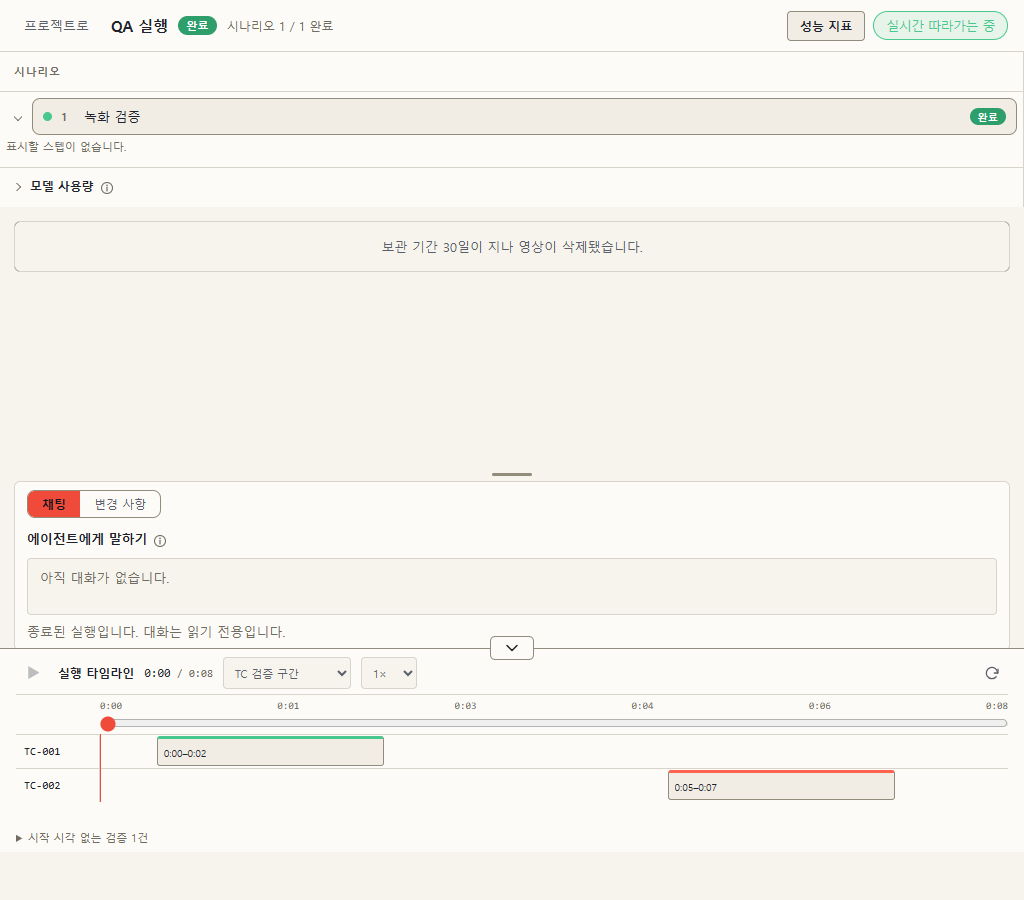
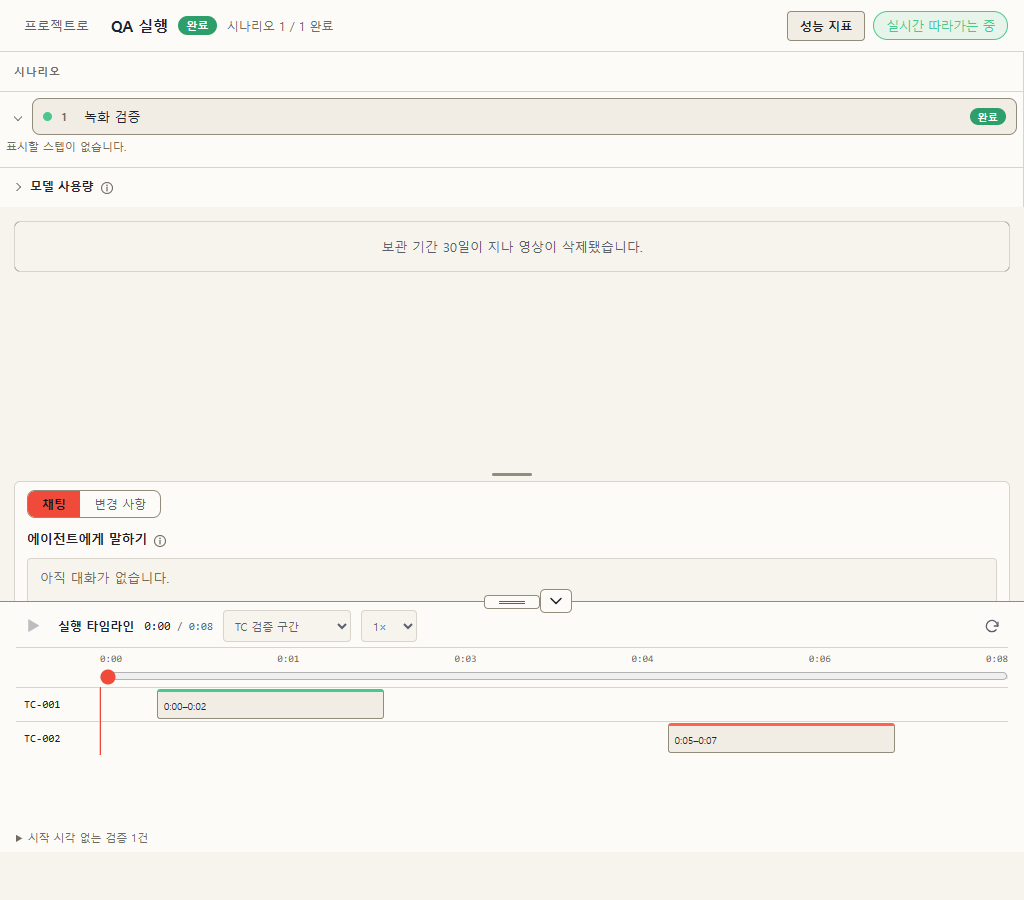
feat(qa): 타임라인 overlay와 드래그 높이 조절 추가

Changed region(s): [[0.0312, 0.6533, 1.0, 0.9022], [0.4688, 0.6533, 0.5625, 0.6844], [0.375, 0.6533, 0.4062, 0.6844]]

diff --git a/src/qa/QaExecutionTimeline.tsx b/src/qa/QaExecutionTimeline.tsx
@@ -1,4 +1,4 @@
-import { useRef, useState } from 'react'
+import { useEffect, useRef, useState } from 'react'
 import { useI18n } from '../i18n/useI18n'
 import { useTestCaseLabel } from '../testCases/testCaseIdentifiers'
 import type { Attempt, Playback } from './evaluation/evaluationApi'
@@ -16,14 +16,49 @@ export function QaExecutionTimeline({ bounds, timestamp, playback, attempts, pla
   const caseLabel = useTestCaseLabel()
   const [collapsed, setCollapsed] = useState(false)
   const [zoom, setZoom] = useState(1)
+  const [height, setHeight] = useState(155)
+  const [maximumHeight, setMaximumHeight] = useState(400)
+  const [resizing, setResizing] = useState(false)
+  const panel = useRef<HTMLElement>(null)
+  const drag = useRef<{ y: number; height: number } | null>(null)
   const scroll = useRef<HTMLDivElement>(null)
+  useEffect(() => {
+    const container = panel.current?.closest('.qa-console')
+    if (!container) return
+    const observer = new ResizeObserver(([entry]) => setMaximumHeight(Math.max(64, Math.min(600, entry.contentRect.height - 160))))
+    observer.observe(container)
+    return () => observer.disconnect()
+  }, [])
+  const shownHeight = Math.max(64, Math.min(maximumHeight, height))
+  function resizeTo(value: number) { setHeight(Math.max(64, Math.min(maximumHeight, value))) }
   const duration = (bounds.end - bounds.start) / 1000
   const percentage = (time: number) => Math.max(0, Math.min(100, (time - bounds.start) / (bounds.end - bounds.start) * 100))
   const tracks = caseTimelineTracks(attempts, bounds)
   const ranges = tracks.flatMap(track => track.intervals)
   const current = ranges.filter(({ range }) => timestamp >= range.start && timestamp < range.end)
   const unknown = attempts.filter(attempt => attempt.startedAt === null)
-  return <section className={`qa-execution-timeline${collapsed ? ' qa-execution-timeline--collapsed' : ''}`} aria-label={copy.timeline}>
+  return <section ref={panel} className={`qa-execution-timeline${collapsed ? ' qa-execution-timeline--collapsed' : ''}`} aria-label={copy.timeline}>
+    <div className="qa-timeline-resize" role="separator" tabIndex={0} aria-label={copy.resize} aria-orientation="horizontal" aria-valuemin={64} aria-valuemax={maximumHeight} aria-valuenow={shownHeight} data-resizing={resizing}
+      onPointerDown={event => {
+        if (event.button !== 0) return
+        event.preventDefault()
+        event.currentTarget.setPointerCapture(event.pointerId)
+        drag.current = { y: event.clientY, height: collapsed ? 64 : shownHeight }
+        setResizing(true)
+      }}
+      onPointerMove={event => {
+        if (!drag.current) return
+        if (Math.abs(event.clientY - drag.current.y) > 3) setCollapsed(false)
+        resizeTo(drag.current.height + drag.current.y - event.clientY)
+      }}
+      onPointerUp={event => { drag.current = null; setResizing(false); event.currentTarget.releasePointerCapture(event.pointerId) }}
+      onLostPointerCapture={() => { drag.current = null; setResizing(false) }}
+      onKeyDown={event => {
+        if (!['ArrowUp', 'ArrowDown', 'Home', 'End'].includes(event.key)) return
+        event.preventDefault()
+        setCollapsed(false)
+        resizeTo(event.key === 'Home' ? 64 : event.key === 'End' ? maximumHeight : shownHeight + (event.key === 'ArrowUp' ? 24 : -24))
+      }}><span aria-hidden="true" /></div>
     <header className="qa-execution-head">
       <button className="qa-icon-button" type="button" disabled={!playable} aria-label={playing ? evidence.pause : evidence.play} onClick={onTogglePlay}>
         <svg aria-hidden="true" width="18" height="18" viewBox="0 0 24 24" fill="currentColor">{playing ? <><rect x="6" y="4" width="4" height="16" rx="1" /><rect x="14" y="4" width="4" height="16" rx="1" /></> : <path d="M7 4.5a1 1 0 0 1 1.5-.86l12 7a1 1 0 0 1 0 1.72l-12 7A1 1 0 0 1 7 18.5z" />}</svg>
@@ -46,7 +81,7 @@ export function QaExecutionTimeline({ bounds, timestamp, playback, attempts, pla
       <button className="qa-icon-button qa-timeline-collapse" type="button" aria-label={collapsed ? copy.expand : copy.collapse} title={collapsed ? copy.expand : copy.collapse} aria-expanded={!collapsed} onClick={() => setCollapsed(value => !value)}><svg aria-hidden="true" width="20" height="20" viewBox="0 0 24 24" fill="none" stroke="currentColor" strokeWidth="1.8" strokeLinecap="round" strokeLinejoin="round"><path d={collapsed ? 'm6 15 6-6 6 6' : 'm6 9 6 6 6-6'} /></svg></button>
     </header>
     {!collapsed && <>
-      <div className="qa-timeline-scroll" ref={scroll}>
+      <div className="qa-timeline-scroll" ref={scroll} style={{ height: shownHeight }}>
         <div className="qa-timeline-chart" style={{ width: `${zoom * 100}%` }}>
           <div className="qa-timeline-axis">
             <div className="qa-timeline-ruler" aria-hidden="true">{Array.from({ length: 6 * zoom }, (_, index) => <span key={index}>{clipTimeLabel(duration * index / (6 * zoom - 1))}</span>)}</div>

diff --git a/src/qa/qaReplay.css b/src/qa/qaReplay.css
@@ -85,9 +85,9 @@
 .qa-replay-timeline-host { flex:none; }
 .qa-focus:has(.qa-execution-timeline) { grid-template-rows:unset; }
 .qa-execution-timeline { position:relative; padding:8px 16px 7px; }
-.qa-timeline-collapse { position:absolute; top:-13px; left:50%; transform:translateX(-50%); z-index:4; width:44px; height:24px; border:1px solid var(--color-border-strong); border-radius:5px; background:var(--color-bg-surface); color:var(--color-text-primary); }
+.qa-timeline-collapse { position:absolute; top:-13px; left:calc(50% + 44px); transform:translateX(-50%); z-index:4; width:32px; height:24px; border:1px solid var(--color-border-strong); border-radius:5px; background:var(--color-bg-surface); color:var(--color-text-primary); }
 .qa-execution-timeline--collapsed { padding-bottom:8px; }
-.qa-timeline-scroll { max-height:155px; overflow:auto; margin-top:5px; border-top:1px solid var(--color-border-subtle); }
+.qa-timeline-scroll { overflow:auto; margin-top:5px; border-top:1px solid var(--color-border-subtle); }
 .qa-timeline-chart { position:relative; margin:0; min-width:100%; }
 .qa-timeline-axis { position:sticky; top:0; margin-left:84px; z-index:3; padding:3px 0 8px; background:var(--color-bg-surface); }
 .qa-timeline-ruler { line-height:16px; padding-bottom:8px; }
@@ -116,3 +116,10 @@
   .qa-execution-timeline { padding-inline:10px; }
   .qa-timeline-zoom { width:48px; }
 }
+.qa-replay-timeline-host { position:absolute; bottom:0; left:0; right:0; z-index:6; }
+.qa-timeline-resize { position:absolute; top:-7px; left:0; right:0; height:14px; cursor:row-resize; touch-action:none; z-index:3; }
+.qa-timeline-resize > span { position:absolute; left:50%; top:0; transform:translateX(-50%); width:56px; height:14px; display:grid; place-items:center; border:1px solid var(--color-border-strong); border-radius:4px; background:var(--color-bg-surface); }
+.qa-timeline-resize > span::after { content:''; width:26px; height:3px; border-block:1px solid var(--color-text-secondary); }
+.qa-timeline-resize:hover > span, .qa-timeline-resize[data-resizing='true'] > span { border-color:var(--color-action-primary); }
+.qa-timeline-resize:focus-visible { outline:2px solid var(--color-action-primary); outline-offset:2px; }
+html:has(.qa-timeline-resize[data-resizing='true']) { cursor:row-resize; user-select:none; }

diff --git a/src/i18n/messages/qa.ts b/src/i18n/messages/qa.ts
@@ -2,7 +2,7 @@ import type { Localized } from '../messages'
 
 /** Strings for `src/qa/*`. See `common.ts` for the typing convention. */
 export const qaEn = {
-  replay: { title: 'Execution timeline', zoom: 'Timeline zoom', collapse: 'Collapse timeline', expand: 'Expand timeline', timeline: 'QA recording timeline', intervals: 'TC verification intervals', unknownStart: 'Start time unknown · jump to report', gaps: (count: number) => `${count} video gaps`, unknownIntervals: (count: number) => `${count} attempts without a start time` },
+  replay: { title: 'Execution timeline', zoom: 'Timeline zoom', resize: 'Resize timeline height', collapse: 'Collapse timeline', expand: 'Expand timeline', timeline: 'QA recording timeline', intervals: 'TC verification intervals', unknownStart: 'Start time unknown · jump to report', gaps: (count: number) => `${count} video gaps`, unknownIntervals: (count: number) => `${count} attempts without a start time` },
   rawLogs: {
     filter: 'Filter text', type: 'Type', direction: 'Direction', all: 'All',
     includePulse: 'Include pulse relay', find: 'Find in filtered logs',
@@ -695,7 +695,7 @@ export const qaEn = {
 } as const
 
 export const qaKo: Localized<typeof qaEn> = {
-  replay: { title: '실행 타임라인', zoom: '시간축 확대', collapse: '타임라인 접기', expand: '타임라인 펼치기', timeline: 'QA 녹화 실행 바', intervals: 'TC 검증 구간', unknownStart: '시작 시각 없음 · 결과 보고 시점으로 이동', gaps: (count: number) => `영상 누락 ${count}구간`, unknownIntervals: (count: number) => `시작 시각 없는 검증 ${count}건` },
+  replay: { title: '실행 타임라인', zoom: '시간축 확대', resize: '타임라인 높이 조절', collapse: '타임라인 접기', expand: '타임라인 펼치기', timeline: 'QA 녹화 실행 바', intervals: 'TC 검증 구간', unknownStart: '시작 시각 없음 · 결과 보고 시점으로 이동', gaps: (count: number) => `영상 누락 ${count}구간`, unknownIntervals: (count: number) => `시작 시각 없는 검증 ${count}건` },
   rawLogs: {
     filter: '텍스트 필터', type: '종류', direction: '방향', all: '전체',
     includePulse: 'pulse relay 포함', find: '필터 결과에서 찾기',

diff --git a/.plan/assets/qa-replay/README.md b/.plan/assets/qa-replay/README.md
@@ -10,13 +10,14 @@
 
 ## 결과
 
-Chromium 화면 회귀 30개가 통과했습니다.
+Chromium 화면 회귀 35개가 통과했습니다.
 
 - 기존 영상 로드, TC 반복 시도와 시작 시각 없는 attempt 표시.
 - pulse 기본 제외·포함 전환, 메시지 필터·payload find와 Enter 이동.
 - TC 선택과 실행 바 탐색 시 segment offset 및 시점 로그 동기화.
 - 검색 시 이전 로그 자동 조회, 100개 초과 attempt 페이지 로드.
-- 시나리오 아래 전체 폭 타임라인, 경계선에 겹친 SVG 접기·펼치기 버튼, 시간축 확대.
+- 시나리오 아래 전체 폭 타임라인, 경계선의 드래그 높이 조절과 SVG 접기·펼치기 버튼, 시간축 확대.
+- 타임라인 높이 조절·펼치기 중 기존 영상 위치·크기 유지, 키보드 높이 조절.
 - 동시 TC별 track과 같은 TC 반복 검증의 겹친 lane, 현재 TC3건 표시.
 - 시점 로그 조회 성공 뒤 다른 seek 실패·재시도 복구, 재생 버튼과 시간 바 진행.
 - 영상 중간 gap 및 마지막 영상 이후 gap에서 이전 프레임 제거.
@@ -35,3 +36,5 @@ Chromium 화면 회귀 30개가 통과했습니다.
 - `error.png`, `expired.png`: API 오류와 보관 만료.
 
 실제 QA12의 영상 decode, TC별16개 track, Raw 로그 표시, 1.3초 재생 시 bar1.3과 일시 정지 버튼, 접기·펼치기와4배 확대를 읽기 전용으로 확인했습니다.
+
+타임라인은 하단 overlay로 표시합니다. 위로 높이를 늘려도 기존 시나리오·영상·로그 레이아웃을 밀지 않습니다.

diff --git a/.plan/general/2026-11-04-qa-replay-log-navigation.md b/.plan/general/2026-11-04-qa-replay-log-navigation.md
@@ -53,3 +53,5 @@ origin/develop의 evaluationApi.playback/attempts가 기존 서버 녹화와 실
 ## 추가 반영
 
 타임라인을 시나리오를 포함한 전체 영역 아래로 이동했습니다. 경계선의 SVG 버튼으로 접고 펼치며 시간축을 확대할 수 있습니다. 동시 검증은 TC별 track, 같은 TC의 겹친 반복 검증은 lane으로 분리합니다. Raw는 검색창과 필터 아이콘만 두고 cheat·behavior 요약을 숨깁니다. 검색 시 과거 로그를 자동 조회하고 시점 이동은 가까운 verdict cursor부터 조회합니다. 영상 프레임 시간으로 bar를 갱신하며 이전 video 이벤트는 무시합니다. Chromium30개와 전체1626개 테스트로 확인했습니다.
+
+사용자 정정에 따라 타임라인 경계에서 드래그 높이 조절과 SVG 접기·펼치기를 함께 지원합니다. 타임라인은 하단 overlay로 표시하며 기존 화면 위치와 크기는 유지합니다. 추가 Chromium 검증을 포함해35개가 통과했습니다.
